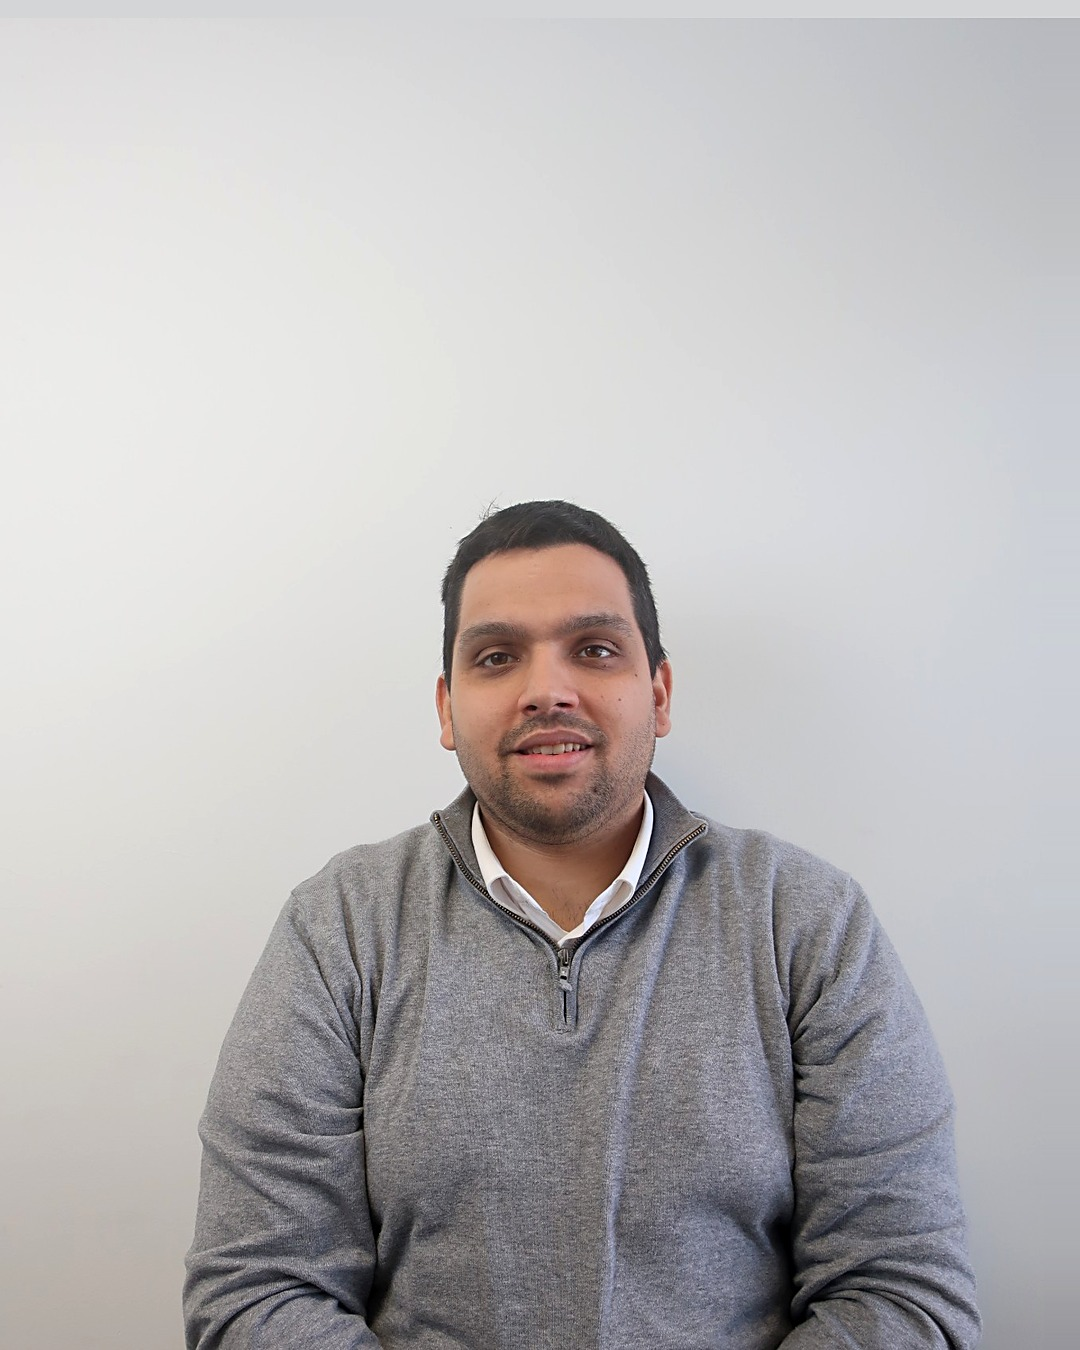
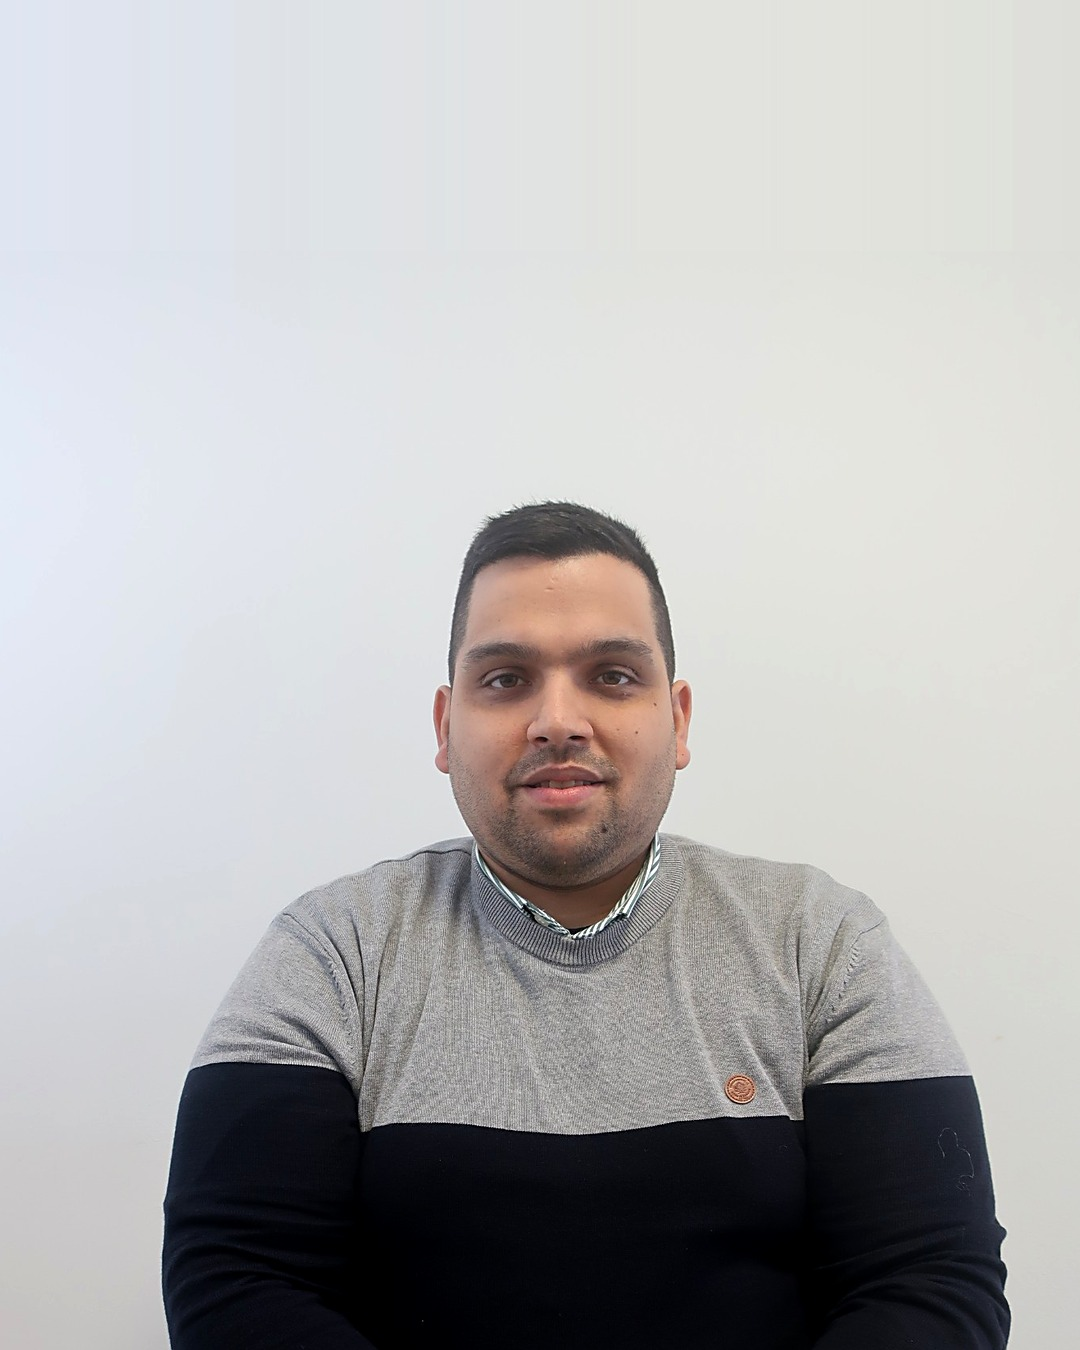
Aniversário do João (cor): nova fotografia
Claude-Session: https://claude.ai/code/session_0173GtUhSHhHFQaxLRUGv3dG

diff --git a/aniversario-joao/post-v2-cor/carrossel.html b/aniversario-joao/post-v2-cor/carrossel.html
@@ -27,7 +27,7 @@ body{background:#17181a;font-family:var(--du-font-sans);padding:56px}
     <path fill-rule="evenodd" fill="#0a0305" d="M60 84 H1020 V1266 H60 Z
       M148 600 H932 Q960 600 960 628 V982 Q960 1010 932 1010 H388 Q360 1010 360 1038 V1152 Q360 1180 332 1180 H148 Q120 1180 120 1152 V628 Q120 600 148 600 Z"/>
   </svg>
-  <div class="abs" role="img" aria-label="Retrato de João Nascimento, a sorrir, de camisola cinzenta sobre camisa branca, a cores." style="left:120px;top:600px;width:840px;height:410px"></div>
+  <div class="abs" role="img" aria-label="Retrato de João Nascimento, a sorrir, de camisola cinzenta e azul-escura sobre camisa às riscas, a cores." style="left:120px;top:600px;width:840px;height:410px"></div>
   <!-- só a cabeça sai da janela, por cima do painel -->
   <img class="abs" src="joao-recorte.png" alt="" style="inset:0;width:1080px;height:1350px;clip-path:inset(0 0 744px 0)">
 
